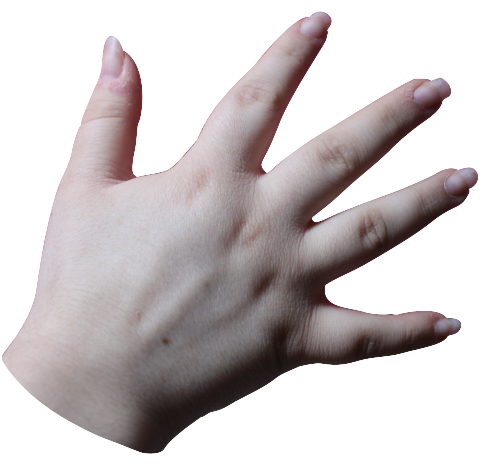
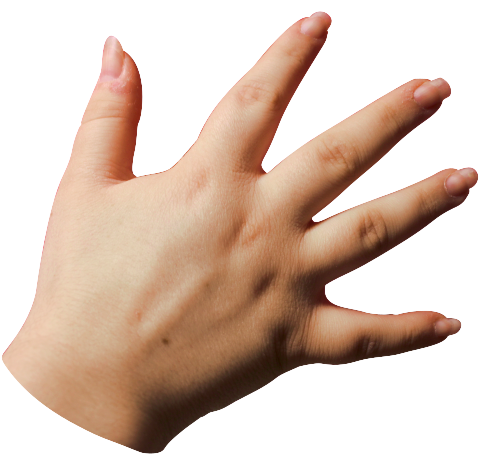
Color grade + changes

diff --git a/index.html b/index.html
@@ -6,9 +6,10 @@
 <body>
 <div class="headerbar">
     <div class="logowrapper">
-        <img id="logo" src="./images/logo.svg" height="160px">
+
     </div>
     <div class="fullHeading">
+        <img id="logo" class="svg-filtered" src="./images/logo.svg" height="80px">
         <a href="#Demos">Demos</a>
         <a href="#contactForm">Contact</a>
         <a href="#homeStudio">Home Studio</a>
@@ -16,9 +17,8 @@
 </div>
 
 <div class="contentoverlap" style="padding-bottom: 600px;">
-
     <div class="bodyText">
-        <h1 id="aboutme" class="sectionHeading">About Me!</h1>
+        <h1 id="aboutme" class="sectionHeading1">About Me!</h1>
         <br>
         <p id="Bio">Alex Doftoreanu is a recent Full Time Diploma program graduate at On The Mic Training who goes over the top in their voice work (unless they are asked to tone it down, of course). Alex loves expressing themselves through their voice, whether it be developing their characters for animation and video games, finding the best way to show off products during commercials, or hooking people in with their voice in narration. They are excited to dive into this industry with an open mind and get their voice out there!</p>
 
@@ -26,25 +26,32 @@
     <img id="heart1" src="./images/heart1.png" width="100px">
     <img id="heart2" src="./images/heart2.png" width="200px">
     <img id="heart3" src="./images/heart3.png" width="200px">
-    <img id="cat" src="./images/1783637092608blob.jpg" width="650px">
+<div class="imageanim">
+  <img src="./images/headshot.png" class="trigger" id="cat" width="600px">
+  <img src="./images/left1.png" class="target1">   
+  <img src="./images/right1.png" class="target2">
+</div>
 </div>
 
 
-<div class="audiocont" >
-    <img id="soundwave" src="./images/soundwav.png" width="350px">
-    <img id="soundwave2" src="./images/soundwav2.png" width="350px">
+<div class="audiocont" style="padding-bottom: 700px;" >
+
+
     <img id="flower1" src="./images/flower1.png" width="200px">
     <img id="flower2" src="./images/flower2.png" width="150px">
     <img id="flower3" src="./images/flower2.png" width="250px">
 
-    <div class="bodyText" style="padding-bottom: 400px;">
-        <h1 class="sectionHeading" id="Demos">DEMOS</h1>
-        <br>
-        <p >Here's a demo of my voice acting!</p>
+    
+        <div class="bodyText2" style="gap: 150px; padding-top: 200px;" >
 
-        <audio controls src="./audio/Alex Doftoreanu Animation Demo FINAL.mp3" ></audio>
-
-    </div>
+            <div>
+                
+                    <audio controls src="./audio/Alex Doftoreanu Animation Demo FINAL.mp3" ></audio>
+            </div>
+            <div>
+                    <audio controls src="./audio/Alex Doftoreanu Animation Demo FINAL.mp3" ></audio>
+            </div>
+</div>
 
 </div>
 <div class="content" style="padding-bottom: 200px;">
@@ -69,52 +76,45 @@
         </div>
 </div>
 <div class="content">
-<div class="image-container">
-  <img src="./images/headshot.png" class="trigger" width="700px">
-  <img src="./images/left1.png" class="target1">   
-  <img src="./images/right1.png" class="target2">
-</div>
+
 </div>
 <div> 
     <div class="content">
 <h1 class="sectionHeading" id="contactForm">Work with me!</h1>
 </div>   
 
-<div class="content">
-<div class="form">
+<div class="content2">
+    
 
-  <form   action="https://formspree.io/f/xwvgnwyz"
-  method="POST">
-    <h1>to: Alex</h1>
-
-    <div id="email">
-      <label for="name">email:</label>
-      <input type="text" id="name" name="user_name">
-    </div>
-
-    <br>
+        <p class="bodyText2">
+            Lorem ipsum, dolor sit amet consectetur adipisicing elit. Omnis, aliquid temporibus, molestias consectetur dignissimos laboriosam iste similique hic quibusdam sed magni sequi dolor, ad neque numquam aliquam voluptatem minus aut.
+        </p>
+    <div class="form">
+                <form   action="https://formspree.io/f/xwvgnwyz"
+                method="POST">
 
 
+                    <div id="email">
+                    <label for="name">email:</label>
+                    <input type="text" id="name" name="user_name">
+                    </div>
 
-    <div id="message">
-      <label for="msg">Your message:</label>
-      <textarea id="msg" name="user_message"></textarea>
-    </div>
-    <br>
+                    <br>
 
-    <div class="button">
-      <button type="submit">Send your message</button>
-    </div>
-  </form>
 
-</div>
-</div>
-<div class="content">
-    <div class="accentThankYou">
-        <p>Thank You For Reading</p>
+
+                    <div id="message">
+                    <label for="msg">Your message:</label>
+                    <textarea id="msg" name="user_message"></textarea>
+                    </div>
+                    <br>
+
+                    <div class="button">
+                    <button type="submit">Send your message</button>
+                    </div>
+                </form>
 
     </div>
-
 </div>
 
 

diff --git a/styles.css b/styles.css
@@ -95,6 +95,7 @@ a, a:link, a:visited, a:hover, a:active {
     color: #F6F7F0;
     display: flex;
     justify-self: right;
+    padding-right: 20px;
 
 
 }
@@ -112,6 +113,27 @@ a, a:link, a:visited, a:hover, a:active {
     justify-self: center;
     color: #2D151B;
 }
+.sectionHeading1 {
+    font-family: 'Amorlate';
+    font-size: 54px;
+    padding-right: 150px;
+    justify-self: right;
+    color: #2D151B;
+}
+.sectionHeading2 {
+    font-family: 'Amorlate';
+    font-size: 34px;
+    padding-right: 150px;
+    top: -50px;
+
+    color: #2D151B;
+}
+#Demos {
+    position: absolute;
+    top: -20px;
+}
+
+
 
 .accentThankYou {
     font-family: 'Whitenice';
@@ -128,7 +150,23 @@ a, a:link, a:visited, a:hover, a:active {
     font-size: 22px;
     color: #2D151B;
     padding:25px;
+    padding-top: 0px;
+
     z-index: 3;
+    position: relative;
+    top: 600px;
+}
+.bodyText2 {
+    font-family: 'Comfortaa';
+    font-size: 22px;
+    color: #2D151B;
+    padding:25px;
+    padding-top: 0px;
+    padding-left: 50px;
+    z-index: 3;
+    justify-self: center;
+
+    display: flex;
 
 }
 .bodyTextSmall {
@@ -177,6 +215,22 @@ body {
     padding: 35px;
     z-index: 4;
 }
+.content2{
+    display: grid;
+    grid-template-columns: repeat(2, auto);
+    background-color: #F0CCCC;
+    position: relative;
+    width: 70vw;
+    align-self: center;
+    justify-self: center;
+
+    padding: 35px;
+    z-index: 4;
+
+    grid-template-areas: "a a";
+
+}
+
 
 .contentoverlap{
     display: grid;
@@ -186,17 +240,17 @@ body {
     align-self: center;
     justify-self: center;
     justify-content: center;
-    padding-top: 60px;
-    padding-bottom: 120px;
+    padding-bottom: 220px;
     padding-left: 35px;
-        padding-right: 35px;
+    padding-right: 35px;
     z-index: 3;
     position: relative;
+    padding-top: -10px;
 }
 #cat {
     position: absolute;
     margin-bottom: 25px;
-    top: 110px;
+    top: 50px;
     left: -50px;
 
 }
@@ -219,13 +273,13 @@ body {
 #heart2{
     position: absolute;
     left: 1000px;
-    top: 600px;
+    top: 400px;
 
 }
 #heart3{
     position: absolute;
     left: 800px;
-    top: 800px;
+    top: 200px;
 
 }
 #cat2 {
@@ -274,20 +328,23 @@ body {
 
 audio{
     position: relative;
-    bottom: -50px;
+    z-index: 1000000000000000000000000000000000000;
+    bottom: 50px;
 }
 #logo {
-    z-index: 100000000000000000000000000000000;
-    padding: 30px;
+    z-index: 10000000000;
+
     position: absolute;
-    background-color: #F6F7F0;
-    left: 15px;
+
+    left: 10px;
     object-fit: cover;
     overflow: visible;
-    top: 15px;
+    top: 5px;
     border-radius: 160px;
 }
-
+.svg-filtered {
+  filter: invert(100%);
+}
 #Bio{
     width: 58%;
     justify-self: right;
@@ -440,25 +497,20 @@ display: inline-block;
 
 .form {
   font  : 1.6rem sans-serif;
-  padding : 0.5em;
+  padding-left : 50px;
+    padding-right : 150px;
+
   margin  : 0;
-  background : #222;
+  display: flex;
+
 }
 
 form {
-  position : relative;
-  width  : 740px;
   height : 498px;
-  margin : 0 auto;
-  padding: 1em;
-  box-sizing: border-box;
-  background : #FFF url(./images/background.jpg);
 
-  /* we create our grid */
-  display  : grid;
-  gap : 20px;
-  grid-template-columns : repeat(2, 1fr);
-  grid-template-rows    : 10em 1em 1em 1em;
+
+
+
 }
 
 h1 {
@@ -485,12 +537,11 @@ textarea {
   padding : 0 10px;
   margin  : 0;
   width   : 80%;
-  background   : rgba(0, 0, 0, 0.192);
+
 }
 
 input:focus,
 textarea:focus {
-  background   : rgba(0,0,0,.1);
   border-radius: 5px;
 }
 
@@ -536,21 +587,28 @@ button:focus {
 }
 .target1 {
     position: absolute;
-    left: 400px;
-    width: 500px;
+    left: 0px;
+    top: 60px;
+    width: 400px;
 }
 .target2 {
     position: absolute;
-    right: 400px;
-    top: 500px;
-    width: 500px;
+    left: 100px;
+    top: 470px;
+    width: 400px;
 }
-.trigger:hover ~ .target1 {
+
+.imageanim:hover .target1 {
   content: url('./images/left2.png');
-  left: -200px;
+  left: -350px;
 }
-.trigger:hover ~ .target2 {
+
+.imageanim:hover .target2 {
   content: url('./images/right2.png');
-      transform: rotate(40deg);
-        right: -200px;
+  transform: rotate(40deg);
+  left: 350px;
+}
+.target1,
+.target2 {
+  transition: left 0.5s ease, transform 0.5s ease;
 }
